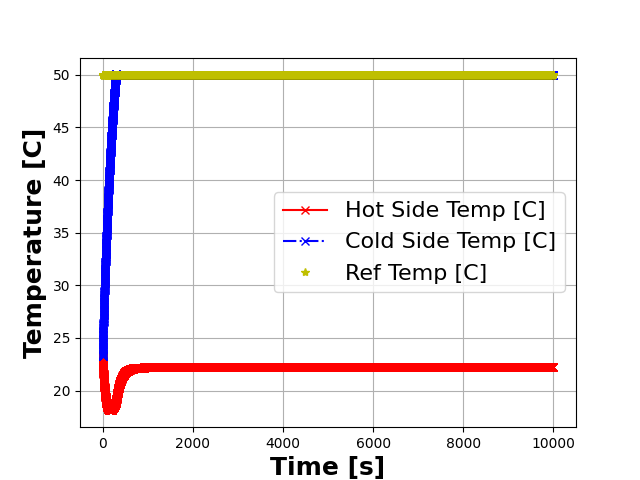
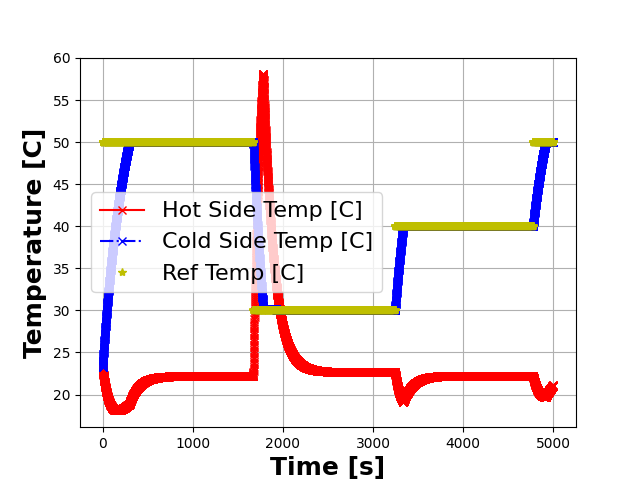
Fixed hot side/cold side with test code

diff --git a/tests/mlp_hot.py b/tests/mlp_hot.py
@@ -11,12 +11,14 @@ TEST_NAME = "mlp_hot"
 if __name__ == "__main__":
     if not os.path.exists('./results/'):
         os.mkdirs('./results/')
-    pC = bessel.plant_circuit("Detector", None, bessel.Signal.VOLTAGE, plate_select = bessel.TECPlate.COLD_SIDE)
+    bessel.seed_everything(7777)
+    plate_select = bessel.TECPlate.HOT_SIDE
+    pC = bessel.plant_circuit("Detector", None, bessel.Signal.VOLTAGE, plate_select=plate_select)
     cbs = bessel.circular_buffer_sequencer([50.00, 30.00, 40.00], pC.get_ncs())
-    nc = bessel.neural_controller(cbs, hidden_units = 6, lrate = 0.5, plate_select = bessel.TECPlate.COLD_SIDE)
+    nc = bessel.neural_controller(cbs, hidden_units = 6, lrate = 0.01, plate_select=plate_select)
     pC.set_controller_f(nc.controller_f)
     pC.run_sim()
-    pC.plot_th_tc(bessel.IndVar.TIME, plot_driver = True, include_ref = True)
+    pC.plot_th_tc(bessel.IndVar.TIME, plot_driver = False, include_ref = True)
     plt.savefig('./figs/{}'.format(TEST_NAME))
     data = numpy.array([pC.get_t(), pC.get_th_sensor()])
     numpy.save('./results/{}_time_th_sensor_curr'.format(TEST_NAME), data)

diff --git a/bessel/bessel.py b/bessel/bessel.py
@@ -5,6 +5,7 @@
 from abc import ABC, abstractmethod
 
 import os
+import random
 import numpy as np
 
 import cffi
@@ -52,6 +53,18 @@ K_CONINT = 3.1
 
 def K_to_C(T_in_C):
     return T_in_C - 273.15
+
+
+def seed_everything(seed=1234):
+    random.seed(seed)
+    tseed = random.randint(1, 1E6)
+    tcseed = random.randint(1, 1E6)
+    npseed = random.randint(1, 1E6)
+    ospyseed = random.randint(1, 1E6)
+    torch.manual_seed(tseed)
+    torch.cuda.manual_seed_all(tcseed)
+    np.random.seed(npseed)
+    os.environ['PYTHONHASHSEED'] = str(ospyseed)
 
 # Classes
 
@@ -142,6 +155,7 @@ class neural_controller(controller):
                                        T_ref]).astype('f'))
         self.t_ref = torch.tensor([T_ref], requires_grad=True)
         self.z = torch.tensor([T_cold if self.plate_select == TECPlate.COLD_SIDE else T_hot], requires_grad=True)
+        # self.z = torch.tensor([T_cold if self.plate_select == TECPlate.COLD_SIDE else T_hot], requires_grad=True)
 
         self.optimizer.zero_grad()
         yc = self.net(x)

diff --git a/tests/mlp_cold.py b/tests/mlp_cold.py
@@ -11,10 +11,12 @@ TEST_NAME = "mlp_cold"
 if __name__ == "__main__":
     if not os.path.exists('./results/'):
         os.mkdirs('./results/')
-    pC = bessel.plant_circuit("Detector", None, bessel.Signal.VOLTAGE)
+    bessel.seed_everything(7777)
+    plate_select = bessel.TECPlate.COLD_SIDE
+    pC = bessel.plant_circuit("Detector", None, bessel.Signal.VOLTAGE, plate_select=plate_select)
     cbs = bessel.circular_buffer_sequencer([50.00, 30.00, 40.00], pC.get_ncs())
-    pidc = bessel.pid_controller(cbs, -30.00, -0.0007, -0.10, bessel.TECPlate.COLD_SIDE)
-    pC.set_controller_f(pidc.controller_f)
+    nc = bessel.neural_controller(cbs, hidden_units = 6, lrate = 0.01, plate_select=plate_select)
+    pC.set_controller_f(nc.controller_f)
     pC.run_sim()
     pC.plot_th_tc(bessel.IndVar.TIME, plot_driver = False, include_ref = True)
     plt.savefig('./figs/{}'.format(TEST_NAME))

diff --git a/tests/pid_cold.py b/tests/pid_cold.py
@@ -11,9 +11,10 @@ TEST_NAME = "pid_cold"
 if __name__ == "__main__":
     if not os.path.exists('./results/'):
         os.mkdirs('./results/')
-    pC = bessel.plant_circuit("Detector", None, bessel.Signal.VOLTAGE)
+    plate_select = bessel.TECPlate.COLD_SIDE
+    pC = bessel.plant_circuit("Detector", None, bessel.Signal.VOLTAGE, plate_select=plate_select)
     cbs = bessel.circular_buffer_sequencer([50.00, 30.00, 40.00], pC.get_ncs())
-    pidc = bessel.pid_controller(cbs, -30.00, -0.0007, -0.10, bessel.TECPlate.COLD_SIDE)
+    pidc = bessel.pid_controller(cbs, -30.00, -0.0007, -0.10, plate_select=plate_select)
     pC.set_controller_f(pidc.controller_f)
     pC.run_sim()
     pC.plot_th_tc(bessel.IndVar.TIME, plot_driver = False, include_ref = True)

diff --git a/tests/volt_ref.py b/tests/volt_ref.py
@@ -12,11 +12,13 @@ TEST_NAME = "transient"
 if __name__ == "__main__":
     if not os.path.exists('./results/'):
         os.mkdirs('./results/')
+    plate_select = bessel.TECPlate.HOT_SIDE
     pC = bessel.plant_circuit("Detector",
                               lambda t, Th_arr: 0.0@u_V,
-                              bessel.Signal.VOLTAGE)
+                              bessel.Signal.VOLTAGE,
+                              plate_select=plate_select)
     pC.run_sim()
-    pC.plot_th_tc(bessel.IndVar.TIME)
+    pC.plot_th_tc(bessel.IndVar.TIME, plot_driver = False)
     plt.savefig('./figs/{}'.format(TEST_NAME))
     data = numpy.array([pC.get_t(), pC.get_th_sensor()])
     numpy.save("./results/{}_time_th_volt".format(TEST_NAME), data)

diff --git a/tests/pid_hot.py b/tests/pid_hot.py
@@ -11,9 +11,10 @@ TEST_NAME = "pid_hot"
 if __name__ == "__main__":
     if not os.path.exists('./results/'):
         os.mkdirs('./results/')
-    pC = bessel.plant_circuit("Detector", None, bessel.Signal.VOLTAGE)
+    plate_select = bessel.TECPlate.HOT_SIDE
+    pC = bessel.plant_circuit("Detector", None, bessel.Signal.VOLTAGE, plate_select=plate_select)
     cbs = bessel.circular_buffer_sequencer([50.00, 30.00, 40.00], pC.get_ncs())
-    pidc = bessel.pid_controller(cbs, 8.00, 0.00, 0.00, bessel.TECPlate.HOT_SIDE)
+    pidc = bessel.pid_controller(cbs, 8.00, 0.00, 0.00, plate_select=plate_select)
     pC.set_controller_f(pidc.controller_f)
     pC.run_sim()
     pC.plot_th_tc(bessel.IndVar.TIME, plot_driver = False, include_ref = True)

diff --git a/tests/transient.py b/tests/transient.py
@@ -12,9 +12,11 @@ TEST_NAME = "transient"
 if __name__ == "__main__":
     if not os.path.exists('./results/'):
         os.mkdirs('./results/')
+    plate_select = bessel.TECPlate.HOT_SIDE
     pC = bessel.plant_circuit("Detector",
                               lambda t , Th_arr : 2.1@u_A,
-                              bessel.Signal.CURRENT)
+                              bessel.Signal.CURRENT,
+                              plate_select)
     start_t = time.time()
     pC.run_sim()
     end_t = time.time()
